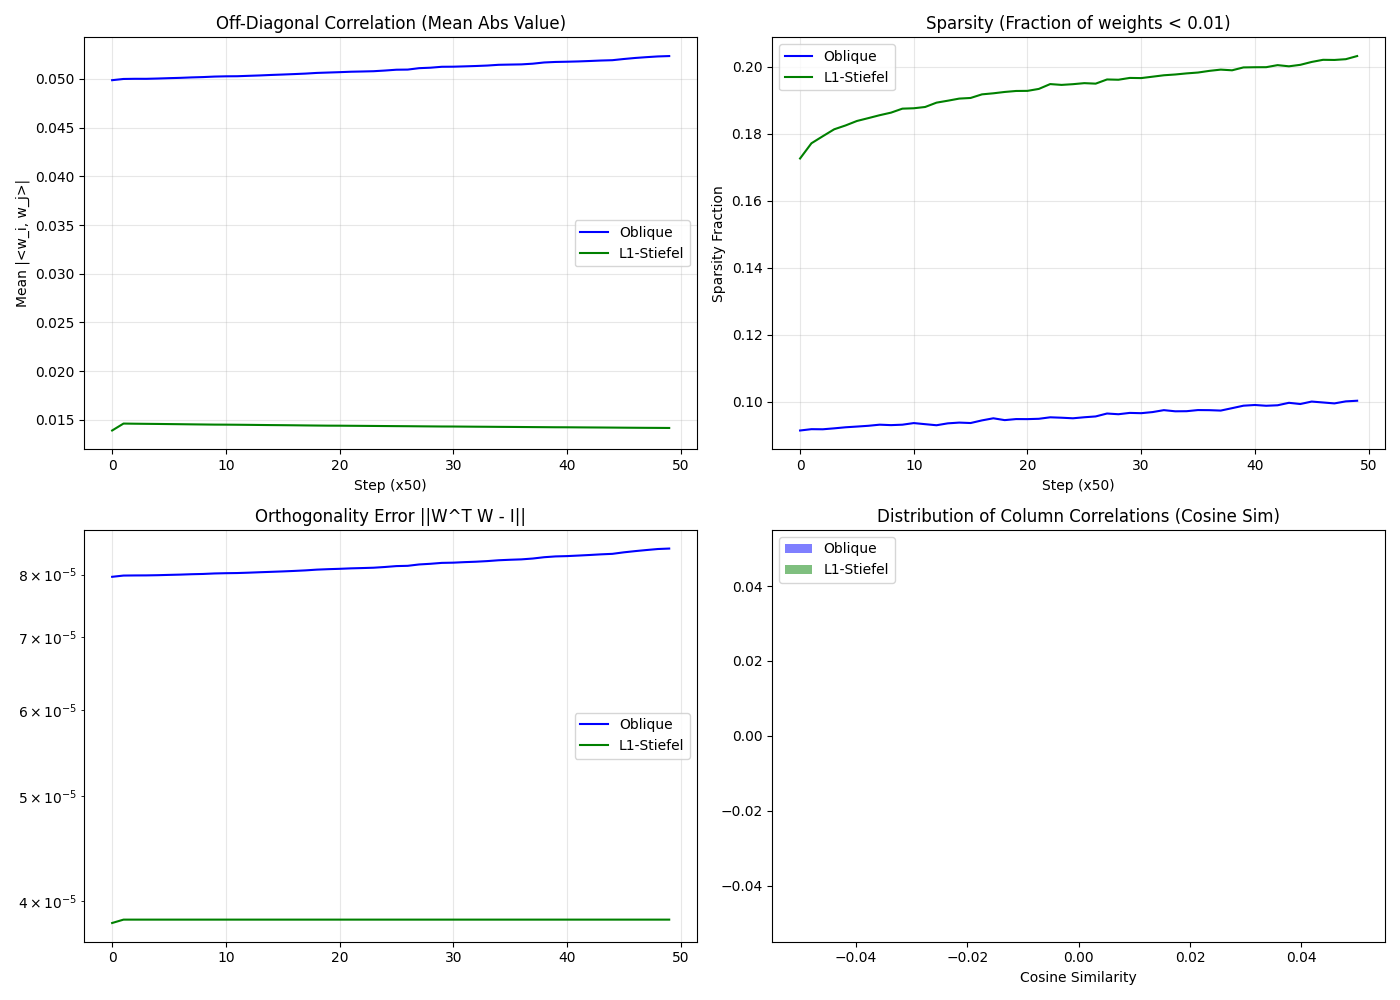
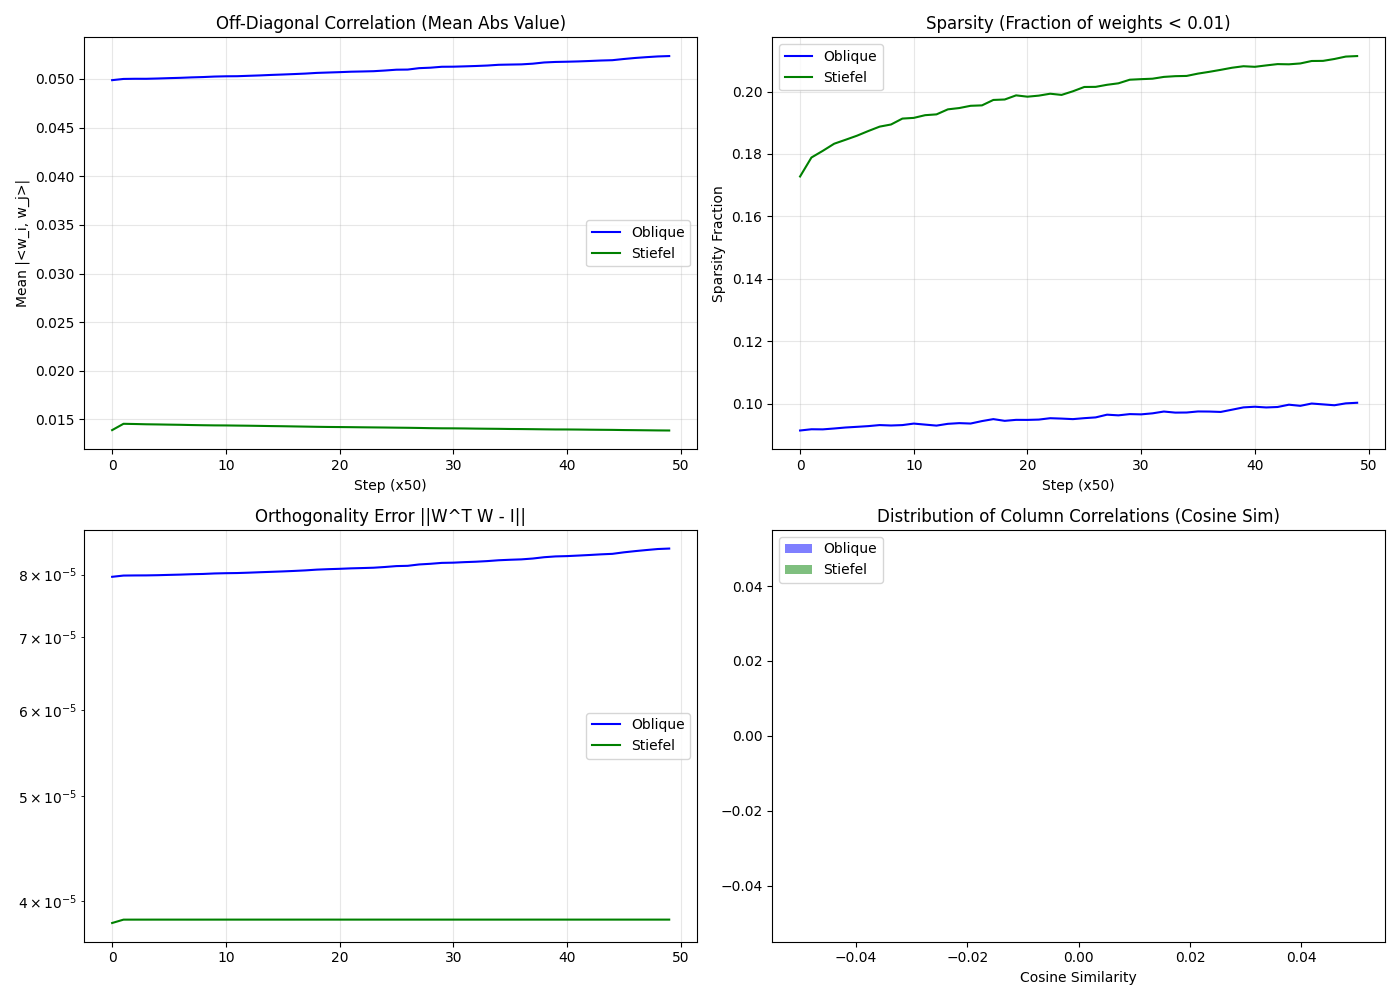
refactor: Rename L1-Stiefel optimizer to Stiefel and remove associated experiment plan; update related documentation and plots accordingly.

diff --git a/mnist/experiments/oblique_vs_stiefel.py b/mnist/experiments/oblique_vs_stiefel.py
@@ -1,9 +1,9 @@
 """
-Oblique vs L1-Stiefel Matrix Dynamics Experiment
+Oblique vs Stiefel Matrix Dynamics Experiment
 
 This experiment specifically focuses on the geometric differences between:
 1. Oblique Optimizer (Unit-norm columns)
-2. L1-Stiefel Optimizer (Orthonormal columns + Sparsity)
+2. Stiefel Optimizer (Orthonormal columns)
 
 We track:
 - Orthogonality Error ||W^T W - I||_F
@@ -27,7 +27,7 @@ import os
 sys.path.insert(0, os.path.dirname(os.path.dirname(os.path.dirname(os.path.abspath(__file__)))))
 
 from optimizers.oblique import ObliqueOptimizer
-from optimizers.l1_stiefel import L1StiefelOptimizer
+from optimizers.l1_stiefel import StiefelOptimizer
 from mnist.common.models import MNISTNet
 
 def set_seed(seed=42):
@@ -108,7 +108,7 @@ def train_network(optimizer_name, train_loader, test_loader, device, epochs=5):
         optimizer = ObliqueOptimizer(model.parameters(), base_opt)
     elif optimizer_name == 'stiefel':
         base_opt = torch.optim.SGD(model.parameters(), lr=0.1, momentum=0.9)
-        optimizer = L1StiefelOptimizer(model.parameters(), base_opt, l1_weight=1e-4) # Small L1
+        optimizer = StiefelOptimizer(model.parameters(), base_opt)
     
     history = {
         'loss': [],
@@ -160,7 +160,7 @@ def plot_comparison(oblique_hist, stiefel_hist):
     # 1. Off-Diagonal Correlation (The main difference)
     ax = axes[0, 0]
     ax.plot(oblique_hist['off_diag_mean'], label='Oblique', color='blue')
-    ax.plot(stiefel_hist['off_diag_mean'], label='L1-Stiefel', color='green')
+    ax.plot(stiefel_hist['off_diag_mean'], label='Stiefel', color='green')
     ax.set_title("Off-Diagonal Correlation (Mean Abs Value)")
     ax.set_ylabel("Mean |<w_i, w_j>|")
     ax.set_xlabel("Step (x50)")
@@ -170,7 +170,7 @@ def plot_comparison(oblique_hist, stiefel_hist):
     # 2. Sparsity
     ax = axes[0, 1]
     ax.plot(oblique_hist['sparsity'], label='Oblique', color='blue')
-    ax.plot(stiefel_hist['sparsity'], label='L1-Stiefel', color='green')
+    ax.plot(stiefel_hist['sparsity'], label='Stiefel', color='green')
     ax.set_title("Sparsity (Fraction of weights < 0.01)")
     ax.set_ylabel("Sparsity Fraction")
     ax.set_xlabel("Step (x50)")
@@ -180,7 +180,7 @@ def plot_comparison(oblique_hist, stiefel_hist):
     # 3. Orthogonality Error
     ax = axes[1, 0]
     ax.plot(oblique_hist['ortho_error'], label='Oblique', color='blue')
-    ax.plot(stiefel_hist['ortho_error'], label='L1-Stiefel', color='green')
+    ax.plot(stiefel_hist['ortho_error'], label='Stiefel', color='green')
     ax.set_title("Orthogonality Error ||W^T W - I||")
     ax.set_yscale('log')
     ax.legend()
@@ -198,7 +198,7 @@ def plot_comparison(oblique_hist, stiefel_hist):
     stf_vals = get_off_diag_values(stiefel_hist['final_gram'])
     
     ax.hist(obl_vals, bins=50, alpha=0.5, label='Oblique', color='blue', density=True)
-    ax.hist(stf_vals, bins=50, alpha=0.5, label='L1-Stiefel', color='green', density=True)
+    ax.hist(stf_vals, bins=50, alpha=0.5, label='Stiefel', color='green', density=True)
     ax.set_title("Distribution of Column Correlations (Cosine Sim)")
     ax.set_xlabel("Cosine Similarity")
     ax.legend()

diff --git a/optimizers/__init__.py b/optimizers/__init__.py
@@ -21,7 +21,7 @@ from optimizers.oblique import ObliqueOptimizer, oblique_project
 from optimizers.grassmannian import GrassmannianOptimizer, grassmann_project
 from optimizers.block_stiefel import BlockStiefelOptimizer, block_stiefel_project
 from optimizers.sl_muon import SLMuonOptimizer, sl_project
-from optimizers.l1_stiefel import L1StiefelOptimizer
+from optimizers.l1_stiefel import StiefelOptimizer
 from optimizers.symplectic import SymplecticMuonOptimizer, is_symplectic
 from optimizers.doubly_stochastic import DoublyStochasticOptimizer, sinkhorn_normalize
 
@@ -41,7 +41,6 @@ __all__ = [
     'GrassmannianOptimizer',  # Subspace optimization
     'BlockStiefelOptimizer',  # Multi-head attention
     'SLMuonOptimizer',        # Volume-preserving (det=1)
-    'L1StiefelOptimizer',     # Sparse orthogonal
     'SymplecticMuonOptimizer',# Physics/Hamiltonian
     'DoublyStochasticOptimizer', # Permutation learning
     
